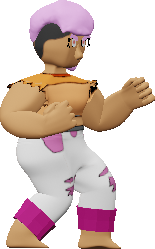
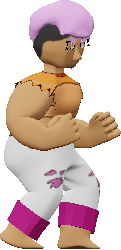
add new walk sprites for girl and fixed puching

diff --git a/Player_2.py b/Player_2.py
@@ -1,16 +1,16 @@
 
+from time import process_time_ns
 import pygame
 from pygame import mixer
 
 
 class Player2:
     
-    def __init__(self, max_hp, strength):
+     def __init__(self, max_hp, strength):
           self.max_hp = max_hp
           self.hp = max_hp
           self.strength = strength
           self.damage = 1
-          #self.image = pygame.image.load('Char/testpose1.png')
           self.right2 = False
           self.left2 = False
           self.jump2 = False
@@ -23,9 +23,9 @@ class Player2:
           self.faceR = False
           self.punch = False
           #walk frames
-          self.image = pygame.image.load('Char\GIRL\wank\GW0.png'), pygame.image.load('Char\GIRL\wank\GW1.png'), pygame.image.load('Char\GIRL\wank\GW2.png'), pygame.image.load('Char\GIRL\wank\GW3.png') 
+          self.image = pygame.image.load('Char\GIRL\wank\GW0.png'), pygame.image.load('Char\GIRL\wank\GW1.png'), pygame.image.load('Char\GIRL\wank\GW2.png'), pygame.image.load('Char\GIRL\wank\GW3.png'), pygame.image.load('Char\GIRL\wank\GW4.png'), pygame.image.load('Char\GIRL\wank\GW5.png'), pygame.image.load('Char\GIRL\wank\GW6.png'), pygame.image.load('Char\GIRL\wank\GW7.png')
           self.imageL = []
-          for i in range(4):
+          for i in range(8):
                imageL_ = pygame.transform.flip(self.image[i],True,False)
                self.imageL.append(imageL_)
 
@@ -35,14 +35,14 @@ class Player2:
           for i in range(6):
                punkL_ = pygame.transform.flip(self.punk[i],True,False)
                self.punkL.append(punkL_)
-          
+               
           #kick frames
           self.kick = pygame.image.load('Char/GIRL/kick/TBKC0A.png'), pygame.image.load('Char/GIRL/kick/TBKC0B.png'), pygame.image.load('Char/GIRL/kick/TBKC0C.png'), pygame.image.load('Char/GIRL/kick/TBKC0D.png'), pygame.image.load('Char/GIRL/kick/TBKC0D.png'), pygame.image.load('Char/GIRL/kick/TBKC0E.png')
           self.kickL = []
           for i in range(6):
                kickL_ = pygame.transform.flip(self.kick[i],True,False)
                self.kickL.append(kickL_)
-          
+               
           #jump frames
           self.jumpAni = pygame.image.load("Char/GIRL/jump/C0JUMP.png"), pygame.image.load("Char/GIRL/jump/C0JUMP.png"), pygame.image.load("Char/GIRL/jump/C0JUMP.png"), pygame.image.load("Char/GIRL/jump/C0JUMP.png"), pygame.image.load("Char/GIRL/jump/C0JUMP.png"), pygame.image.load("Char/GIRL/jump/C0JUMP.png")
           self.jumpAniL = []
@@ -56,43 +56,44 @@ class Player2:
           for i in range(4):
                death_AniL_ = pygame.transform.flip(self.death_Ani[i],True,False)
                self.death_AniL.append(death_AniL_)
-          
+               
           #falling will have to be baced on player high so useing walkcount would not work - ima put this on hold for now
           #falling frames
           #self.falling = pygame.image.load("")
           
     
     
-    def update(self):
+     def update(self):
         
-       self.mouse = pygame.mouse.get_pos()
-       keystate = pygame.key.get_pressed()
+          keystate = pygame.key.get_pressed()
+
+          print("player2 updated")        
         
-        
-        
-       if keystate[pygame.K_i]:
-            self.jump2 = True
-       else:
-            self.jump2 = False  
-       if keystate[pygame.K_k]:
-            self.down2 = True
-       else:
-            self.down2 = False
-       if keystate[pygame.K_l]:
-            self.right2 = True
-            self.faceR = True
-            self.faceL = False
-       else:
-            self.right2 = False
+          if keystate[pygame.K_i]:
+               self.jump2 = True
+          else:
+               self.jump2 = False  
+          if keystate[pygame.K_k]:
+               self.down2 = True
+          else:
+               self.down2 = False
+          if keystate[pygame.K_l]:
+               self.right2 = True
+               self.faceR = True
+               self.faceL = False
+          else:
+               self.right2 = False
        
-       if keystate[pygame.K_j]:
-            self.left2 = True
-            self.faceR = False
-            self.faceL = True
-       else:
-            self.left2 = False
-       if keystate[pygame.K_RSHIFT]:
-            self.punch = True
-       else:
-            self.punch = False
+          if keystate[pygame.K_j]:
+               self.left2 = True
+               self.faceR = False
+               self.faceL = True
+          else:
+               self.left2 = False
+
+          if keystate[pygame.K_RCTRL]:
+               self.punch = True
+               print("puched")
+          else:
+               self.punch = False
         

diff --git a/main.py b/main.py
@@ -150,17 +150,17 @@ def play():
     #boy movement
     distance = math.sqrt ((math.pow(P1X-P2X,2)) + (math.pow(P1Y-P2Y,2)))
     if player1.punch and distance < 150 and walkcount > 25:
-        if player1.right1:
-            P2X += 10
-        elif player1.left1:
-            P2X -= 10
+        if player1.faceR:
+            P2X += 20
+        elif player1.faceL:
+            P2X -= 20
         pygame.mixer.Sound.play(punch_sound)
         player2.hp -= player1.damage
     if player2.punch and distance < 150 and walkcount > 25:
-        if player2.right2:
-            P1X += 10
-        elif player2.left2:
-            P1X -= 10
+        if player2.faceR:
+            P1X += 30
+        elif player2.faceL:
+            P1X -= 30
         pygame.mixer.Sound.play(punch_sound)
         player1.hp -= player2.damage
 
@@ -191,16 +191,17 @@ def play():
     
 
     #girl movement
+    player2.update()
     idlegirl_left = pygame.transform.flip(idlegirl,True,False)
     if player2.right2 and player2.punch:
         wn.blit(player2.punk[walkcount // 8], (P2X,P2Y))
     elif player2.right2:
-        wn.blit(player2.image[walkcount // 8], (P2X,P2Y))
+        wn.blit(player2.image[walkcount // 4], (P2X,P2Y))
     
     if player2.left2 and player2.punch:
         wn.blit(player2.punkL[walkcount // 8], (P2X, P2Y))
     elif player2.left2 and player2.punch == False:
-        wn.blit(player2.imageL[walkcount // 8], (P2X, P2Y))
+        wn.blit(player2.imageL[walkcount // 4], (P2X, P2Y))
     
     
     elif player2.punch and player2.faceR:
